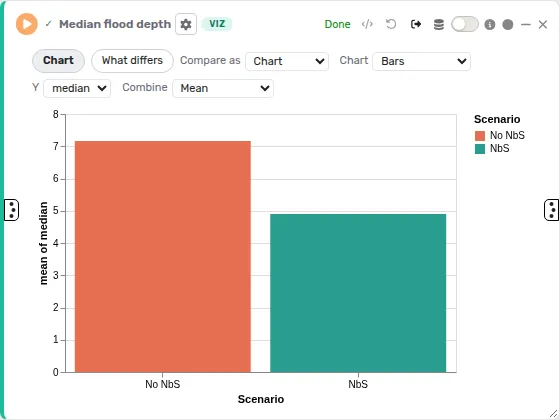
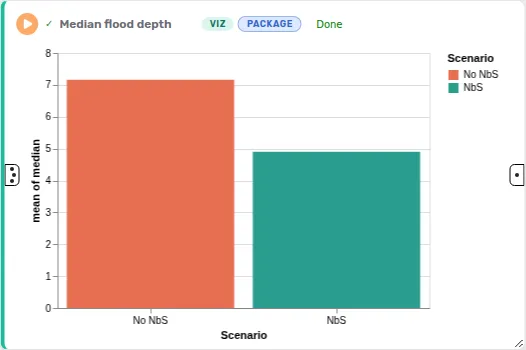
Scenarios and SCOUT pages: charts read every input through the inputs chip, the header's chip categories, Scout's charts and Raster Calculator differences

diff --git a/site/scout.md b/site/scout.md
@@ -7,11 +7,11 @@ card: { poster: /media/scout/flood-change.webp, alt: "A map of the change in flo
 deeper:
   - { doc: docs/examples/24-scout-shadow-model-chicago-loop.md, label: "Example 24: SCOUT shadow model on Chicago Loop buildings" }
   - { doc: docs/README.md, anchor: scout-scenario-studies, label: "The SCOUT scenario studies" }
-  - { doc: packages/scout.rasters@1/README.md, label: "The SCOUT Rasters package" }
-  - { doc: packages/scout.comparison@1/README.md, label: "The SCOUT Comparison package" }
+  - { doc: packages/curio.scout@1/README.md, label: "The Scout package" }
   - { doc: packages/model.scout.deep-umbra@1/README.md, label: "The Deep Umbra model package" }
   - { doc: packages/model.scout.weather-gnn@1/README.md, label: "The SCOUT weather GNN model package" }
   - { doc: docs/USAGE.md, anchor: rasters, label: "Rasters: the Raster Calculator" }
+  - { doc: docs/USAGE.md, anchor: comparing-scenarios, label: "Comparing scenarios" }
   - { doc: docs/README.md, anchor: examples, label: "Example gallery" }
 ---
 
@@ -21,15 +21,15 @@ deeper:
 
 ## Find them
 
-The five dataflows are in the examples every account starts with, under **By source** on the projects page: "SCOUT shadow model on Chicago Loop buildings" (example 24) under **Examples**, and four under **Tests**: "Chicago Loop shadow with towers removed or edited", "Lower Manhattan park shade with towers removed or capped", "Quad Cities flood depth, nature-based solutions and vulnerability" and "Routing around rain and wind in downtown Chicago". The **SCOUT** tag in the [rail](/projects-and-files/#the-projects-page) lists every dataflow that uses a SCOUT node, model or dataset. On your own computer they come with `--with-examples`, which also installs the SCOUT packages.
+The five dataflows are in the examples every account starts with, under **By source** on the projects page: "SCOUT shadow model on Chicago Loop buildings" (example 24) under **Examples**, and four under **Tests**: "Chicago Loop shadow with towers removed or edited", "Lower Manhattan park shade with towers removed or capped", "Quad Cities flood depth, nature-based solutions and vulnerability" and "Routing around rain and wind in downtown Chicago". The **SCOUT** tag in the [rail](/projects-and-files/#the-projects-page) lists every dataflow that uses a SCOUT node, model or dataset. On your own computer they come with `--with-examples`, which also installs the Scout package and SCOUT's model packages.
 
 ## Building rasters and shadows
 
-- **Rasterize Buildings**, from the SCOUT Rasters package, turns a buildings layer with heights in metres into SCOUT's zoom-16 height tiles, side by side in one raster: a mosaic an Autark map draws.
+- **Rasterize Buildings**, from the Scout package (`curio.scout@1`), turns a buildings layer with heights in metres into SCOUT's zoom-16 height tiles, side by side in one raster: a mosaic an Autark map draws.
 - **Accumulated Shadow**, the node of the Deep Umbra model package in the [Model Catalog](/model-catalog/), runs Deep Umbra, SCOUT's shadow model, on that mosaic. It gives the minutes of a day the ground spends in shadow, as a raster on the same grid; its **Season** widget picks spring, summer or winter.
-- A **Raster Calculator**, also from SCOUT Rasters, then takes the shadow's statistics: its mean and median over the ground.
+- A **Raster Calculator**, also from Scout, then takes the shadow's statistics: its mean and median over the ground.
 
-To use SCOUT Rasters in a dataflow of your own, click **Add to project** on its card in the [Node Catalog drawer](/node-catalog/#add-a-package-to-a-project). Its nodes are then under **SCOUT Rasters** in the Tools panel's **Node Catalog** dropdown.
+To use Scout in a dataflow of your own, click **Add to project** on its card in the [Node Catalog drawer](/node-catalog/#add-a-package-to-a-project). Its raster nodes and its [charts](#charts-that-compare-scenarios) are then under **Scout** in the Tools panel's **Node Catalog** dropdown.
 
 Example 24, "SCOUT shadow model on Chicago Loop buildings", runs them on the buildings of SCOUT's Chicago Loop example: the buildings in 3D, the height mosaic and the summer shadow on Autark maps, and the mean and median shadow.
 
@@ -39,7 +39,7 @@ Example 24, "SCOUT shadow model on Chicago Loop buildings", runs them on the bui
 
 <GuideFigure src="/media/scout/summer-shadow.webp" alt="An Autark map of the summer shadow" caption="Deep Umbra&#x27;s summer shadow on the same grid: the minutes of the day each cell spends in shadow, darker where it is longer." :w="532" :h="356" />
 
-"Chicago Loop shadow with towers removed or edited" compares two scenarios of the same buildings over a shared season, Existing and Towers removed, each with an Autark map of its shadow. Both maps set the same `colorMapRange`, 0 to 720 minutes, so a minute of shadow has one color on both. In Towers removed, an [Interaction node](/scenarios/#remove-or-change-features) takes SCOUT's 15 buildings out by their `building_id`. Add edits to its log to remove, raise or lower more, and **Update results** runs the shadow again. One Compare Scenarios node charts the mean shadow, and another takes its change, which an Autark map draws.
+"Chicago Loop shadow with towers removed or edited" compares two scenarios of the same buildings over a shared season, Existing and Towers removed, each with an Autark map of its shadow. Both maps set the same `colorMapRange`, 0 to 720 minutes, so a minute of shadow has one color on both. In Towers removed, an [Interaction node](/scenarios/#remove-or-change-features) takes SCOUT's 15 buildings out by their `building_id`. Add edits to its log to remove, raise or lower more, and **Update results** runs the shadow again. Scout's **Bars** charts the two scenarios' mean shadow over the ground, each scenario's statistics on an input of its own, and another Raster Calculator takes Towers removed's shadow minus Existing's, cell by cell, which an Autark map draws on a red to blue scheme centered on 0.
 
 <GuideFigure src="/media/scout/shadow-existing.webp" alt="An Autark map of the Loop's accumulated shadow, Existing" caption="Existing: the accumulated shadow of the Loop&#x27;s buildings, colored from 0 to 720 minutes." :w="526" :h="350" />
 
@@ -57,48 +57,50 @@ Deep Umbra ships with Curio's repository and its Docker image; a pip install dow
 - Python nodes give every building part a height, keep the open-air parks, and mark the parts at least the **Tall building height** tall within the **Distance from a park** of any park, two [Parameter nodes](/widgets/#share-a-value-with-a-parameter-node) set to 60 m and 75 m;
 - in three scenarios, Existing, Towers removed and Height cap, Interaction nodes remove the marked parts or cut them to the Tall building height. Rasterize Buildings and Accumulated Shadow give the shadow over the season a third Parameter node sets, a Python node measures it in each park, and Autark maps draw the buildings in 3D and the shadow.
 
-One Compare Scenarios node charts each park's mean minutes of shadow, and four take each what-if's change in shadow, cell by cell and per park, which Autark maps draw.
+Scout's **Dots with a range** charts each park's mean minutes of shadow, a dot per scenario on a rule from the park's lowest to its highest, each scenario's parks on an input of its own. For each what-if, a Raster Calculator takes its change in shadow from Existing, cell by cell, and a Python node the change per park, matched by the park's name, which Autark maps draw.
 
 <GuideFigure src="/media/scout/park-change.webp" alt="An Autark map of the change in each park's mean shadow with the towers removed" caption="Towers removed: the change in each park&#x27;s mean shadow, in red, yellow and blue from -720 to 720 minutes." :w="526" :h="350" />
 
 ## Flooding and nature-based solutions
 
-"Quad Cities flood depth, nature-based solutions and vulnerability" is SCOUT's flood study of the Quad Cities, built from Curio's own nodes and SCOUT Rasters' Raster Calculator:
+"Quad Cities flood depth, nature-based solutions and vulnerability" is SCOUT's flood study of the Quad Cities, built from Curio's own nodes and Scout's Raster Calculator:
 
-- three [Parameter nodes](/widgets/#share-a-value-with-a-parameter-node) set the period (2020 to 2040, 2050 to 2080 or 2080 to 2100) and the region's two corners, which start at the region of SCOUT's flood example;
+- three [Parameter nodes](/widgets/#share-a-value-with-a-parameter-node) set the period (2020 - 2050, 2050 - 2080 or 2080 - 2100) and the region's two corners, which start at the region of SCOUT's flood example;
 - Data Loading nodes read only that region's window of SCOUT's whole flood depth rasters, with and without nature-based solutions (NbS), and of its raster of where each solution would go;
-- in each of two scenarios, No NbS and NbS, a **Raster Calculator** takes the depth with NbS where the class is one of the solutions its widget checks, and the depth without NbS elsewhere, a second takes the depth's median and mean, and an Autark map draws the depth. Both depth maps set the same `colorMapRange`, 0 to 11 m.
+- in each of two scenarios, No NbS and NbS, a **Raster Calculator** takes the depth with NbS where the class is one of the solutions its **Nature-based solutions** checkboxes pick, and the depth without NbS elsewhere. No NbS picks none, and NbS all four: bioswales and infiltration trenches, permeable pavements, retention ponds and constructed wetlands. A second Raster Calculator takes the depth's median and mean, and an Autark map draws the depth. Both depth maps set the same `colorMapRange`, 0 to 11 m.
 
-Two Compare Scenarios nodes then take the size of the change in depth between No NbS and NbS, which an Autark map draws, and chart each scenario's median depth.
+Outside the scenarios, another Raster Calculator takes the size of the change in depth between No NbS and NbS, with `absolute=True`, which an Autark map draws, and Scout's **Bars** charts each scenario's median depth.
 
 <GuideFigure src="/media/scout/flood-change.webp" alt="An Autark map of the size of the change in flood depth" caption="Depth change: the size of the change in flood depth between No NbS and NbS, cell by cell, over the region the Parameter nodes set." :w="526" :h="350" />
 
-<GuideFigure src="/media/scout/flood-median.webp" alt="A Compare Scenarios node charting the median flood depth of two scenarios" caption="Median flood depth: the median depth of No NbS and NbS, as bars." :w="560" :h="420" />
+<GuideFigure src="/media/scout/flood-median.webp" alt="Scout's Bars charting the median flood depth of two scenarios" caption="Median flood depth: Scout&#x27;s Bars, the median depth of No NbS and NbS, each bar in its scenario&#x27;s color." :w="526" :h="350" />
 
-The dataflow also weighs the flood against social vulnerability. Two more Data Loading nodes read CDC/ATSDR's Social Vulnerability Index (SVI) for the census tracts and USGS's rivers, lakes and reservoirs from the Data Catalog, and a Data Transformation node keeps the tracts the rivers touch, which an Autark map draws by their SVI percentile. In each scenario, two Data Transformation nodes average the depth over each tract's land, the water left out, and over the riverside land in each period. Compare Scenarios then takes the size of the change in each tract's mean depth, which an Autark map draws, and charts vulnerability against depth and the mean depth by period.
+The dataflow also weighs the flood against social vulnerability. Two more Data Loading nodes read CDC/ATSDR's Social Vulnerability Index (SVI) for the census tracts and USGS's rivers, lakes and reservoirs from the Data Catalog, and a Data Transformation node keeps the tracts the rivers touch, which an Autark map draws by their SVI percentile. In each scenario, a Data Transformation node averages the depth over each tract's land, the water left out, which an Autark map draws, and a Raster Calculator averages it over the riverside land in each period. A Python node takes the size of the change in each tract's mean depth, matched by the tract's FIPS code, which an Autark map draws. Scout's **Points** charts vulnerability against depth, and its **Grouped bars** the mean depth by period.
 
 <GuideFigure src="/media/scout/flood-vulnerability.webp" alt="An Autark map of the riverside tracts by their SVI percentile" caption="The tracts the rivers touch, by their SVI percentile: darker where social vulnerability is higher." :w="526" :h="350" />
 
-<GuideFigure src="/media/scout/flood-period.webp" alt="A Compare Scenarios node charting the mean flood depth by period as grouped bars" caption="Depth by period: the riverside tracts&#x27; mean flood depth in each period, No NbS beside NbS." :w="560" :h="420" />
+<GuideFigure src="/media/scout/flood-period.webp" alt="Scout's Grouped bars charting the mean flood depth by period" caption="Depth by period: Scout&#x27;s Grouped bars, the riverside tracts&#x27; mean flood depth in each period, No NbS beside NbS." :w="526" :h="350" />
 
 A pip install downloads the flood rasters from GitHub the first time a node reads them. The **Raster Calculator** works on any rasters on one grid, from a Python node or the Data Catalog, cell by cell or as statistics. A Data Loading node reads only part of a large GeoTIFF when its `curio_load_data` call is given `bounds`.
 
 ## Weather-aware routing
 
-**Weather Routing**, the node of the SCOUT weather GNN model package in the [Model Catalog](/model-catalog/), finds routes between two points over a roads layer. It weighs each road by the weather that SCOUT's weather graph network predicts on it from SCOUT's WRF forecast in the Data Catalog. Its widgets set the origin and destination, the start time, the mode, the number of routes per factor, and the rain and wind weights; the forecast runs from 5 July 2025, 19:00, to 7 July, 19:00, Chicago time. It outputs the routes, which an Autark map draws, and a table of each route's duration, distance and rain, heat, wind and humidity exposure, which Compare Scenarios charts.
+**Weather Routing**, the node of the SCOUT weather GNN model package in the [Model Catalog](/model-catalog/), finds routes between two points over a roads layer. It weighs each road by the weather that SCOUT's weather graph network predicts on it from SCOUT's WRF forecast in the Data Catalog. Its widgets set the origin and destination, the start time, the mode, the number of routes per factor, and the rain and wind weights; the forecast runs from 5 July 2025, 19:00, to 7 July, 19:00, Chicago time. It outputs the routes, which an Autark map draws, and a table of each route's duration, distance and rain, heat, wind and humidity exposure, which Scout's charts compare.
 
-"Routing around rain and wind in downtown Chicago" is SCOUT's weather routing example. An Autark node loads the roads of SCOUT's box in downtown Chicago, and one Weather Routing node finds SCOUT's two routes over them: the fastest, and the one its weather weights favor. Two scenarios, Fastest route and Weather-aware route, each keep one of them. An Autark map draws both routes over the roads in their scenarios' colors, and four Compare Scenarios nodes chart their duration, distance and rain and wind exposure.
+"Routing around rain and wind in downtown Chicago" is SCOUT's weather routing example. An Autark node loads the roads of SCOUT's box in downtown Chicago, and one Weather Routing node finds SCOUT's two routes over them: the fastest, and the one its weather weights favor. Two scenarios, Fastest route and Weather-aware route, each keep one of them. An Autark map draws both routes over the roads, each route's layer colored by its input's scenario chip, such as `"color": "[!! scenario input_1 !!]"`, so each is in its scenario's color. Four of Scout's **Bars** chart their duration, distance and rain and wind exposure, each with both scenarios' metrics on inputs of its own.
 
 <GuideFigure src="/media/scout/routes-map.webp" alt="An Autark map of two routes over the roads of SCOUT's box in downtown Chicago" caption="The Fastest route and the Weather-aware route over the roads of SCOUT's box, each in its scenario's color." :w="526" :h="350" />
 
-<GuideFigure src="/media/scout/routing-duration.webp" alt="A Compare Scenarios node charting the two routes' durations as bars" caption="Duration: each route's mean duration in minutes, as bars in its scenario's color." :w="560" :h="420" />
+<GuideFigure src="/media/scout/routing-duration.webp" alt="Scout's Bars charting the two routes' durations" caption="Duration: Scout&#x27;s Bars, each route&#x27;s mean duration in minutes, a bar in its scenario&#x27;s color." :w="526" :h="350" />
 
 ## Charts that compare scenarios
 
-The SCOUT Comparison package holds charts to connect after a [Compare Scenarios](/scenarios/#compare-scenarios) node, for comparisons its **Chart** tab does not draw: **Lines with a band**, **Curves by group**, **Bars with error bars**, **Ensemble strips**, **Stacked bars with totals**, **Donuts** and **Weighted matrix**. Each is a Vega-Lite node with a spec of its own. Whatever it colors by scenario, a mark or a name, is in the color of that scenario's box, and the scenarios follow the order of the Compare node's inputs.
+Scout holds charts that compare scenarios: **Lines with a band**, **Curves by group**, **Bars with error bars**, **Ensemble strips**, **Stacked bars with totals**, **Donuts**, **Weighted matrix**, **Dots with a range**, **Bars**, **Grouped bars**, **Lines**, **Points**, **Pie**, **Lollipops** and **Table**. Each is a Vega-Lite node whose spec reads its inputs stacked, through `[!! inputs !!]`, and draws each scenario in its box's color, in the order the dataflow lists the boxes, through its scenario chips (see [Compare scenarios](/scenarios/#compare-scenarios)).
 
-1. Click **Add to project** on the SCOUT Comparison card in the [Node Catalog drawer](/node-catalog/#add-a-package-to-a-project). Its charts are then under **SCOUT Comparison** in the Tools panel's **Node Catalog** dropdown.
-2. Drag a chart onto the canvas and connect a Compare Scenarios node to it.
-3. In its **Widgets** tab, set the columns it plots: each column widget, such as `y` or `part`, takes the name of a column of the Compare node's table. A new chart's widgets hold their own names, so the chart says which column the table lacks until you set them.
+1. Click **Add to project** on the Scout card in the [Node Catalog drawer](/node-catalog/#add-a-package-to-a-project). Its charts are then under **Scout** in the Tools panel's **Node Catalog** dropdown.
+2. Drag a chart onto the canvas and connect each scenario's outcome to one of its input circles: each connection takes the next circle. Until the first one, the chart's `[!! inputs !!]` chip is red.
+3. In its **Widgets** tab, set the columns it plots: each column widget, such as `y` or `part`, takes the name of a column of its inputs. A new chart's widgets hold their own names, so the chart says which column its inputs lack until you set them. **Combine**, in Bars, Grouped bars, Lines, Pie and Lollipops, is how a scenario's rows are combined: `mean`, `sum`, `median`, `min`, `max` or `count`.
 
-In "Nine ways to chart scenario comparisons", under **Tests** on the projects page, each of these charts draws one example table (see [Scenarios](/scenarios/#in-the-examples)).
+A new chart opens with its template's spec on its Grammar tab, and the spec is yours to edit. The row above the spec lists the chips it can use (see [The chips above the spec](/scenarios/#the-chips-above-the-spec)).
+
+In "Nine ways to chart scenario comparisons", under **Tests** on the projects page, nine of these charts each draw one example table (see [Scenarios](/scenarios/#in-the-examples)).

diff --git a/site/scenarios.md b/site/scenarios.md
@@ -1,16 +1,18 @@
 ---
 title: "Scenarios"
-description: "Keep alternatives of a dataflow as scenarios, change their levers, and compare their outcomes in a Compare Scenarios node."
+description: "Keep alternatives of a dataflow as scenarios, change their levers, and compare their outcomes in charts and maps drawn in the scenarios' colors."
 group: using
 order: 45
-card: { poster: /media/scenarios/compare-chart.webp, alt: "A Compare Scenarios node charting the mean sunlight of two scenarios" }
+card: { poster: /media/scenarios/shadow-study.webp, alt: "Example 06 on the canvas with three scenario frames" }
 deeper:
   - { doc: docs/USAGE.md, anchor: scenarios, label: "Scenarios in the usage guide" }
   - { doc: docs/USAGE.md, anchor: the-interaction-node, label: "The Interaction node" }
   - { doc: docs/USAGE.md, anchor: comparing-scenarios, label: "Comparing scenarios" }
+  - { doc: docs/USAGE.md, anchor: every-input-in-one-dataset, label: "Every input in one dataset" }
+  - { doc: docs/USAGE.md, anchor: scenario-colors-and-order, label: "Scenario colors and order" }
   - { doc: docs/examples/06-back-bay-road-sunlight.md, label: "Example 06: Back Bay road sunlight when buildings change" }
   - { doc: docs/README.md, anchor: charts-that-compare-scenarios, label: "Nine ways to chart scenario comparisons" }
-  - { doc: packages/scout.comparison@1/README.md, label: "The SCOUT Comparison package" }
+  - { doc: packages/curio.scout@1/README.md, label: "The Scout package" }
 ---
 
 # Scenarios
@@ -23,7 +25,7 @@ A scenario is a named selection of a dataflow's nodes, or the whole dataflow, ke
 
 A node belongs to one scenario at most.
 
-<GuideFigure src="/media/scenarios/shadow-study.webp" alt="Example 06 on the canvas with three scenario frames" caption="Example 06 on the canvas: a shared loader and Data Pool feed three scenarios, each in its own color inside a frame. Two Compare Scenarios nodes chart their mean sunlight and take the sunlight each road loses, which an Autark map draws." :w="960" :h="400" />
+<GuideFigure src="/media/scenarios/shadow-study.webp" alt="Example 06 on the canvas with three scenario frames" caption="Example 06 on the canvas: a shared loader and Data Pool feed three scenarios, each in its own color inside a frame. Scout's Bars charts the mean sunlight of their roads, and a Python node takes the sunlight each road loses, which an Autark map draws." :w="670" :h="520" />
 
 ## Make a scenario
 
@@ -45,11 +47,11 @@ The dataflow's scenarios are in the [Scenario Catalog](/scenario-catalog/) drawe
 
 **View details** on a card renames, recolors and describes the scenario, and lists its fixed context, levers and outcomes. Pointing at a card marks the scenario's fixed context on the canvas.
 
-<GuideFigure src="/media/scenarios/in-project.webp" alt="Example 06 with the Scenario Catalog drawer's In project tab open" caption="The In project tab beside example 06: a card for each scenario, with its commands. Pointing at Baseline marks the Data Pool, the fixed context it reads." :w="1600" :h="858" />
+<GuideFigure src="/media/scenarios/in-project.webp" alt="The Scenario Catalog drawer's In project tab with one scenario's card" caption="The In project tab: Save selection as scenario and Duplicate as scenario on top, then a card for each of the dataflow's scenarios, here Twice as tall, with its commands." :w="519" :h="520" />
 
 A collapsed scenario is one box in its color that lists its fixed context and its outcomes with their latest output. Its connections are drawn to the box, and dragging the box moves it. Double-click the box to expand it in place. A collapsed scenario's nodes still run with **Run All**, and the context they share runs once.
 
-<GuideFigure src="/media/scenarios/collapsed.webp" alt="The Baseline scenario collapsed into one box" caption="Baseline collapsed into one box: the Data Pool it reads, and its outcome, Roads by sunlight, done. The connection from the pool and those to the Compare Scenarios nodes are drawn to the box." :w="1260" :h="960" />
+<GuideFigure src="/media/scenarios/collapsed.webp" alt="The Baseline scenario collapsed into one box" caption="Baseline collapsed into one box, with the Data Pool it reads and its outcome Roads by sunlight, done. The connections into and out of the scenario are drawn to the box." :w="1260" :h="960" />
 
 The nodes of a scenario's fixed context and its outcomes save their outputs to your [Data Catalog](/data-catalog/) when they run, whatever their **Save output** setting, so the [Scenario Catalog](/scenario-catalog/) can show them and other dataflows can use them. Scenarios, their colors, descriptions and collapsed state are saved with the dataflow.
 
@@ -72,41 +74,76 @@ The edits apply in order. An edit by `building_id` applies to every part of a bu
 
 ## Compare scenarios
 
-The **Compare Scenarios** node compares scenarios' outcomes on the canvas.
+To compare scenarios, connect each scenario's outcome to an input circle of its own on a node outside the scenario boxes: each connection takes the next circle. That node charts them, maps them or takes their difference.
 
-1. Drag **Compare Scenarios** from the palette onto the canvas.
-2. Connect each scenario's outcome to one of its input circles. Each input is labelled by its scenario.
-3. Run it.
+A [Vega-Lite node](/visualization/#vega-lite-charts) whose spec names its dataset with the chip `[!! inputs !!]` reads every input's rows in one table, in circle order. Each row has three more columns:
 
-It works in one of two ways, which **Compare as** switches:
+- `scenario_name`, the name of the scenario box its input comes from, or the name of the node that feeds it when that node is in no box;
+- `scenario`, that box's id, empty for a node in no box;
+- `__input__`, the circle its input came in on.
 
-- **Chart** stacks its inputs into one table, with each scenario's name on its rows, and draws it in the scenarios' colors as bars, grouped bars, lines, points, a pie, lollipops or a table. Pick the **X** and **Y** columns, and how the values of a group are combined in **Combine**: mean, sum, median, minimum, maximum, a count, or none, which plots each row's value as it is. A table writes a scenario whose color is too light to read on white in a darker shade of that color.
-- **Difference** subtracts `input_0`, the reference, from `input_1`: two rasters on one grid cell by cell, each up to 4096 by 4096 cells, or two layers or tables row by row, matched on `osm_id`, `building_id` or a column you pick in **Key**. **Change** picks the signed difference or, with **Absolute**, its size. Each row of a layer's or a table's difference says in its `change` column whether it changed, stayed the same, was removed or was added. A table's difference shows as a table, each row in the color of its change.
+The scenario chips write the boxes' names and colors into the spec:
 
-The node starts in Difference when its two inputs are rasters or layers, and in Chart otherwise. What it makes is its output: other nodes can read it, and the node can be pinned to the [dashboard](/dashboards/).
-
-To draw a raster's or a layer's difference on a map, connect the node to an [Autark node](/visualization/#autark-maps) after it. The Autark spec picks what the map colors by, its color scheme and its legend's `title`. A signed difference of rasters reads best on a diverging scheme centered on 0, and an absolute one on a sequential scheme:
+| Chip | Writes | Goes in |
+|---|---|---|
+| `[!! scenario colors !!]` | a scale: the boxes' names as its `domain`, their colors as its `range` | the `scale` of a color, fill or stroke by `scenario_name` |
+| `[!! scenario text_colors !!]` | the same scale, each color in a shade that reads on white | the `scale` of a text mark's color |
+| `[!! scenario order !!]` | the boxes' names | the `sort` of an axis, an offset or a facet by `scenario_name` |
+| `[!! scenario input_1 !!]` | the color input_1 has in that scale | a mark's color, or a map layer's |
 
 ```json
-{ "map": { "layerRefs": [{ "dataRef": "input_0", "getFnv": "band_1", "colorMapInterpolator": "interpolateRdBu", "colorMapCenter": 0, "title": "Shadow change (minutes)" }] } }
+{
+  "data": {"name": "[!! inputs !!]"},
+  "mark": "bar",
+  "encoding": {
+    "x": {"field": "scenario_name", "type": "nominal", "sort": [!! scenario order !!]},
+    "y": {"field": "sunlight", "type": "quantitative", "aggregate": "mean"},
+    "color": {"field": "scenario_name", "type": "nominal", "scale": [!! scenario colors !!]}
+  }
+}
 ```
 
-To map each scenario's outcome side by side, give their maps the same `colorMapRange`, `[low, high]`, and a value has one color on all of them.
+The boxes come in the order the dataflow lists them. An input from no box comes after them, named by its node, in a gray of its own. When no input comes from a box, `[!! scenario colors !!]` and `[!! scenario text_colors !!]` write the names alone, and the chart's own palette colors them. Renaming or recoloring a box, or drawing one around a node that feeds the chart, draws the chart again with no run. A spec without the chips draws in Vega-Lite's own colors. The [Scout package's charts](/scout/#charts-that-compare-scenarios) are written this way, ready to connect.
 
-A [Vega-Lite node](/visualization/#vega-lite-charts) that reads a Compare Scenarios node's output on its first input draws the scenarios as the **Chart** tab does: a color, fill or stroke by `scenario_name` is in the colors of their boxes, and an axis, an offset or a facet by it follows the order of the Compare node's inputs, whatever the spec writes for that column. When a scenario is renamed or recolored, the chart is drawn again with no run, and a selection made in it stays. For comparisons the **Chart** tab does not draw, the [SCOUT Comparison package](/scout/#charts-that-compare-scenarios) has charts made to go after a Compare Scenarios node.
+## The chips above the spec
 
-<GuideFigure src="/media/scenarios/compare-chart.webp" alt="A Compare Scenarios node in Chart, with two lollipops" caption="Compare Scenarios in Chart: the mean sunlight of Baseline and Twice as tall as lollipops. Above it, the node warns that one scenario reads fixed context the other does not." :w="560" :h="420" />
+Above a node's code or spec, one row lists every chip the node can use, by category, each with its count: **Inputs**, **Scenarios**, **Widgets**, **Selections** and **Shared**. A category shows only when it has chips. The categories start closed: click one to list its chips under the row, and click it again to close it. Several can be open, and a category stays open while the dataflow is open. Drag a chip's tag into the code or spec, or click it to put the chip at the cursor.
 
-<GuideFigure src="/media/scenarios/compare-difference.webp" alt="A Compare Scenarios node in Difference" caption="Compare Scenarios in Difference, with Change set to Signed: the node holds two rasters' difference and says to draw it with an Autark node after it." :w="560" :h="124" />
+- **Inputs:** a tag for each input, `input_0`, `input_1` and so on, whose arrow lists its columns once the node feeding it has run. In a Vega-Lite spec with an input, also the **inputs** tag, whose arrow lists the fields of the stacked rows, `scenario_name`, `scenario` and `__input__` first.
+- **Scenarios:** on a node with an input from a scenario box. In a Vega-Lite spec, first the boxes' swatches with their names, the tag of `[!! scenario colors !!]`, then **text colors** and **order**. In a Vega-Lite or Autark spec, a tag for each input, such as **input_1 ■ Twice as tall**, in the color its chip writes.
+- **Widgets**, **Selections** and **Shared:** the node's [widgets](/widgets/), its [selection tags](/widgets/#hand-a-node-what-you-selected) and the Parameter nodes' values.
 
-<GuideFigure src="/media/scenarios/compare-difference-map.webp" alt="An Autark map of the difference between two rasters" caption="The Autark node after it draws that difference, Twice as tall minus Baseline, on a red to blue scheme centered on 0, under the title its spec gives." :w="526" :h="350" />
+A node with no input from a box has no **Scenarios**, and the hover of a scenario chip in its spec says what the chip writes there. On a node with no input, `[!! inputs !!]` is red until you connect one. `[!! inputs !!]` and the scenario chips are for specs: Python and JavaScript code takes neither.
 
-The **What differs** tab lists the levers that differ between the scenarios: the widget values and code lines that changed, and each scenario's Interaction edits, an edit switched off marked off. A node and its copies count as one lever. Above the tabs, the node warns when the scenarios read different fixed context, when an input comes from a node in no scenario, and when two inputs come from one scenario.
+<GuideFigure src="/media/scenarios/chart-header.webp" alt="A Scout Bars chart on its Grammar tab, with the Scenarios category open above its spec" caption="Scout's Bars chart of the mean accumulated shadow in Chicago Loop shadow with towers removed or edited, on its Grammar tab. Its row reads Inputs 3, Scenarios 5, Widgets 3 and Shared 1, with Scenarios open: the two boxes' swatches and names, text colors and order, then each input in its box's color. The spec names its dataset with the inputs chip." :w="526" :h="350" />
+
+## Maps and differences
+
+An [Autark map](/visualization/#autark-maps) draws a layer in the color of the scenario box its input comes from when that input's scenario chip is the layer's `color`. Its tag under **Scenarios** drags it in, in quotes:
+
+```json
+{ "dataRef": "[!! input_1 !!]", "width": 80, "title": "Fastest route", "color": "[!! scenario input_1 !!]" }
+```
+
+A recolored box gives the layer its new color at the map's next run. To map each scenario's outcome side by side, give their maps the same `colorMapRange`, `[low, high]`, and a value has one color on all of them.
+
+To take a difference:
+
+- **Of two rasters**, a [Raster Calculator](/scout/#building-rasters-and-shadows) subtracts them cell by cell. `raster_calculate("subtract", [input_1, input_0], output_file=curio_output_file)` gives input_1 minus input_0, and with `absolute=True` the size of that difference, 0 where nothing changed. The two rasters must lie on one grid.
+- **Of two tables or layers**, a Python node joins the two inputs' rows on a column both have, such as `osm_id` or `building_id`, and subtracts their numbers.
+
+To draw a difference on a map, connect the node to an Autark node after it. Its spec picks what the map colors by, its color scheme and its legend's `title`. A signed difference reads best on a diverging scheme centered on 0, and an absolute one on a sequential scheme:
+
+```json
+{ "map": { "layerRefs": [{ "dataRef": "[!! input_0 !!]", "getFnv": "band_1", "colorMapInterpolator": "interpolateRdBu", "colorMapCenter": 0, "title": "Shadow change (minutes)" }] } }
+```
+
+<GuideFigure src="/media/scenarios/sunlight-change.webp" alt="An Autark map of Back Bay's roads colored by the sunlight each one loses" caption="Example 06's Roads by sunlight change: the sunlight each road loses when the buildings get twice as tall, which a Python node takes road by road, in red, yellow and blue from -360 to 360 minutes." :w="588" :h="496" />
 
 ## In the examples
 
-Example 06, "Back Bay road sunlight when buildings change", has three scenarios over one loader: Baseline, Twice as tall (its `height_factor` widget set to 2), and Two towers removed (an Interaction node takes out two towers). Its two Compare Scenarios nodes chart their mean road sunlight and take the sunlight each road loses, which an Autark map draws in red, yellow and blue from -360 to 360 minutes. The [SCOUT examples](/scout/) compare scenarios of shadows, park shade, flooding and routes.
+Example 06, "Back Bay road sunlight when buildings change", has three scenarios over one loader: Baseline, Twice as tall (its `height_factor` widget set to 2), and Two towers removed (an Interaction node takes out two towers). Each ends in a Roads node that takes its roads with their sunlight. Scout's **Bars** charts each scenario's mean road sunlight from the three Roads nodes, and a Python node takes the sunlight each road loses in Twice as tall, which an Autark map draws in red, yellow and blue from -360 to 360 minutes. The [SCOUT examples](/scout/) compare scenarios of shadows, park shade, flooding and routes.
 
-"Nine ways to chart scenario comparisons", under **Tests** on the projects page, charts the scenarios of nine example tables from the Data Catalog, each a different way. Compare Scenarios draws two of them itself, as grouped bars and as a table. A chart of the [SCOUT Comparison package](/scout/#charts-that-compare-scenarios) after it draws each of the others, with its columns set in its **Widgets** tab: **Lines with a band**, **Curves by group**, **Bars with error bars**, **Ensemble strips**, **Stacked bars with totals**, **Donuts** and **Weighted matrix**.
+"Nine ways to chart scenario comparisons", under **Tests** on the projects page, charts the scenarios of nine example tables from the Data Catalog, each a different way. For each table, a Data Transformation node per scenario keeps that scenario's rows, and a chart of the [Scout package](/scout/#charts-that-compare-scenarios) takes each scenario's node on an input of its own, with its columns set in its **Widgets** tab: **Lines with a band**, **Curves by group**, **Bars with error bars**, **Ensemble strips**, **Grouped bars**, **Stacked bars with totals**, **Donuts**, **Weighted matrix** and **Table**.
 
-<GuideFigure src="/media/scenarios/charts-carbon.webp" alt="Stacked bars of two building frames' carbon by life-cycle stage, with their totals" caption="From Nine ways to chart scenario comparisons: Stacked bars with totals, from SCOUT Comparison, stacks the carbon of a concrete frame and a timber frame by life-cycle stage after a Compare Scenarios node, with each total on top and each frame&#x27;s name in its scenario&#x27;s color." :w="680" :h="440" />
+<GuideFigure src="/media/scenarios/charts-carbon.webp" alt="Stacked bars of two building frames' carbon by life-cycle stage, with their totals" caption="From Nine ways to chart scenario comparisons: Scout's Stacked bars with totals stacks the carbon of a concrete frame and a timber frame by life-cycle stage, with each total on top and each frame's name in its scenario's color." :w="680" :h="440" />
